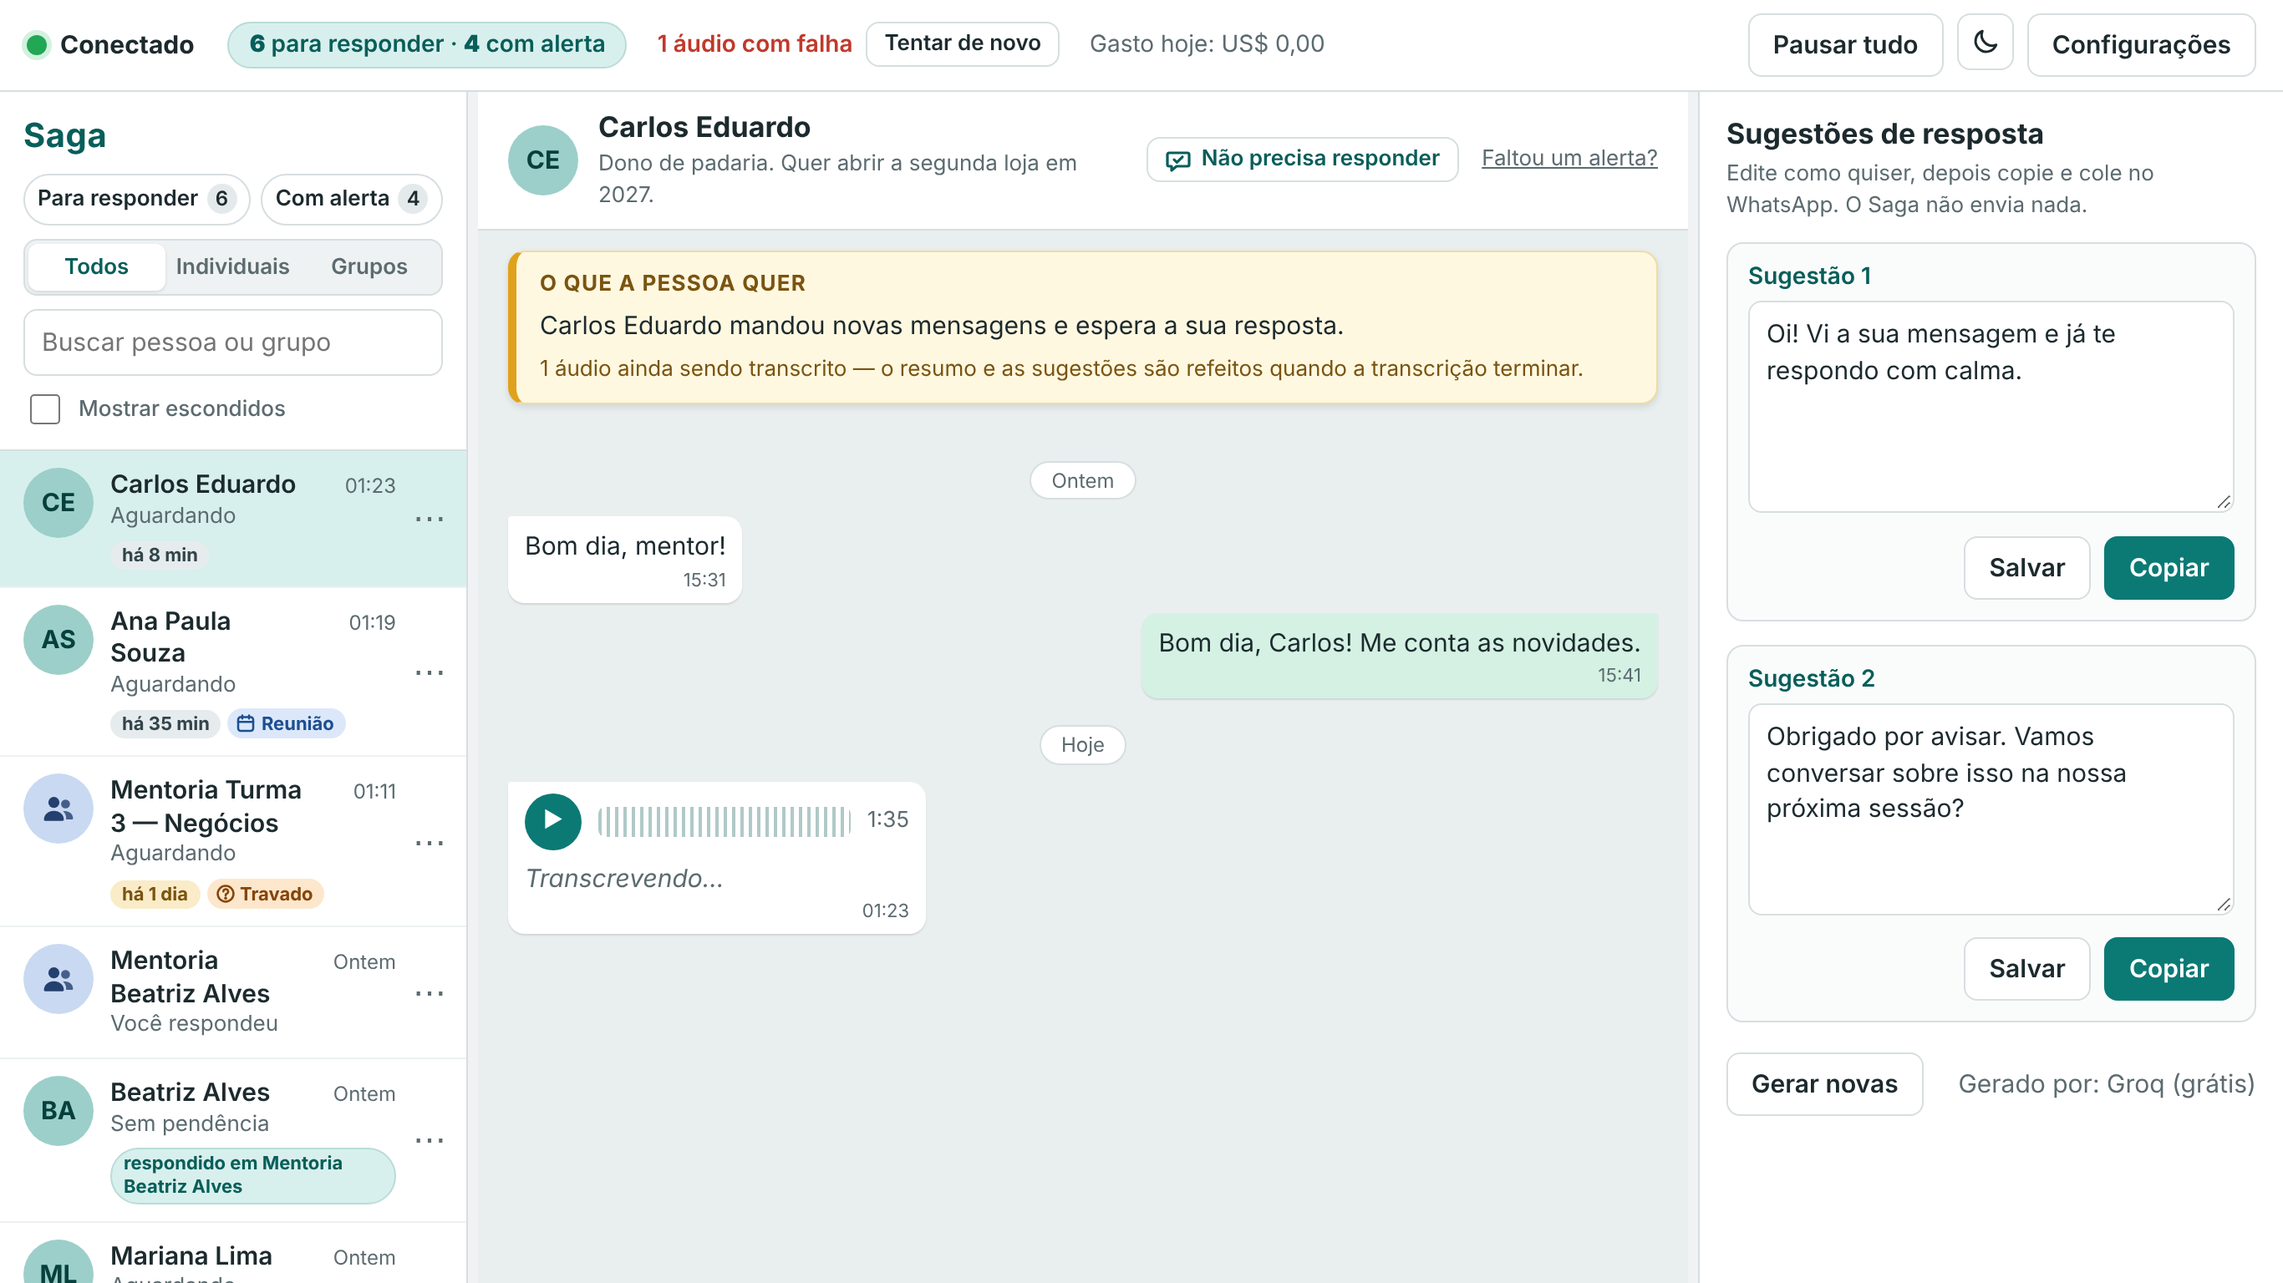
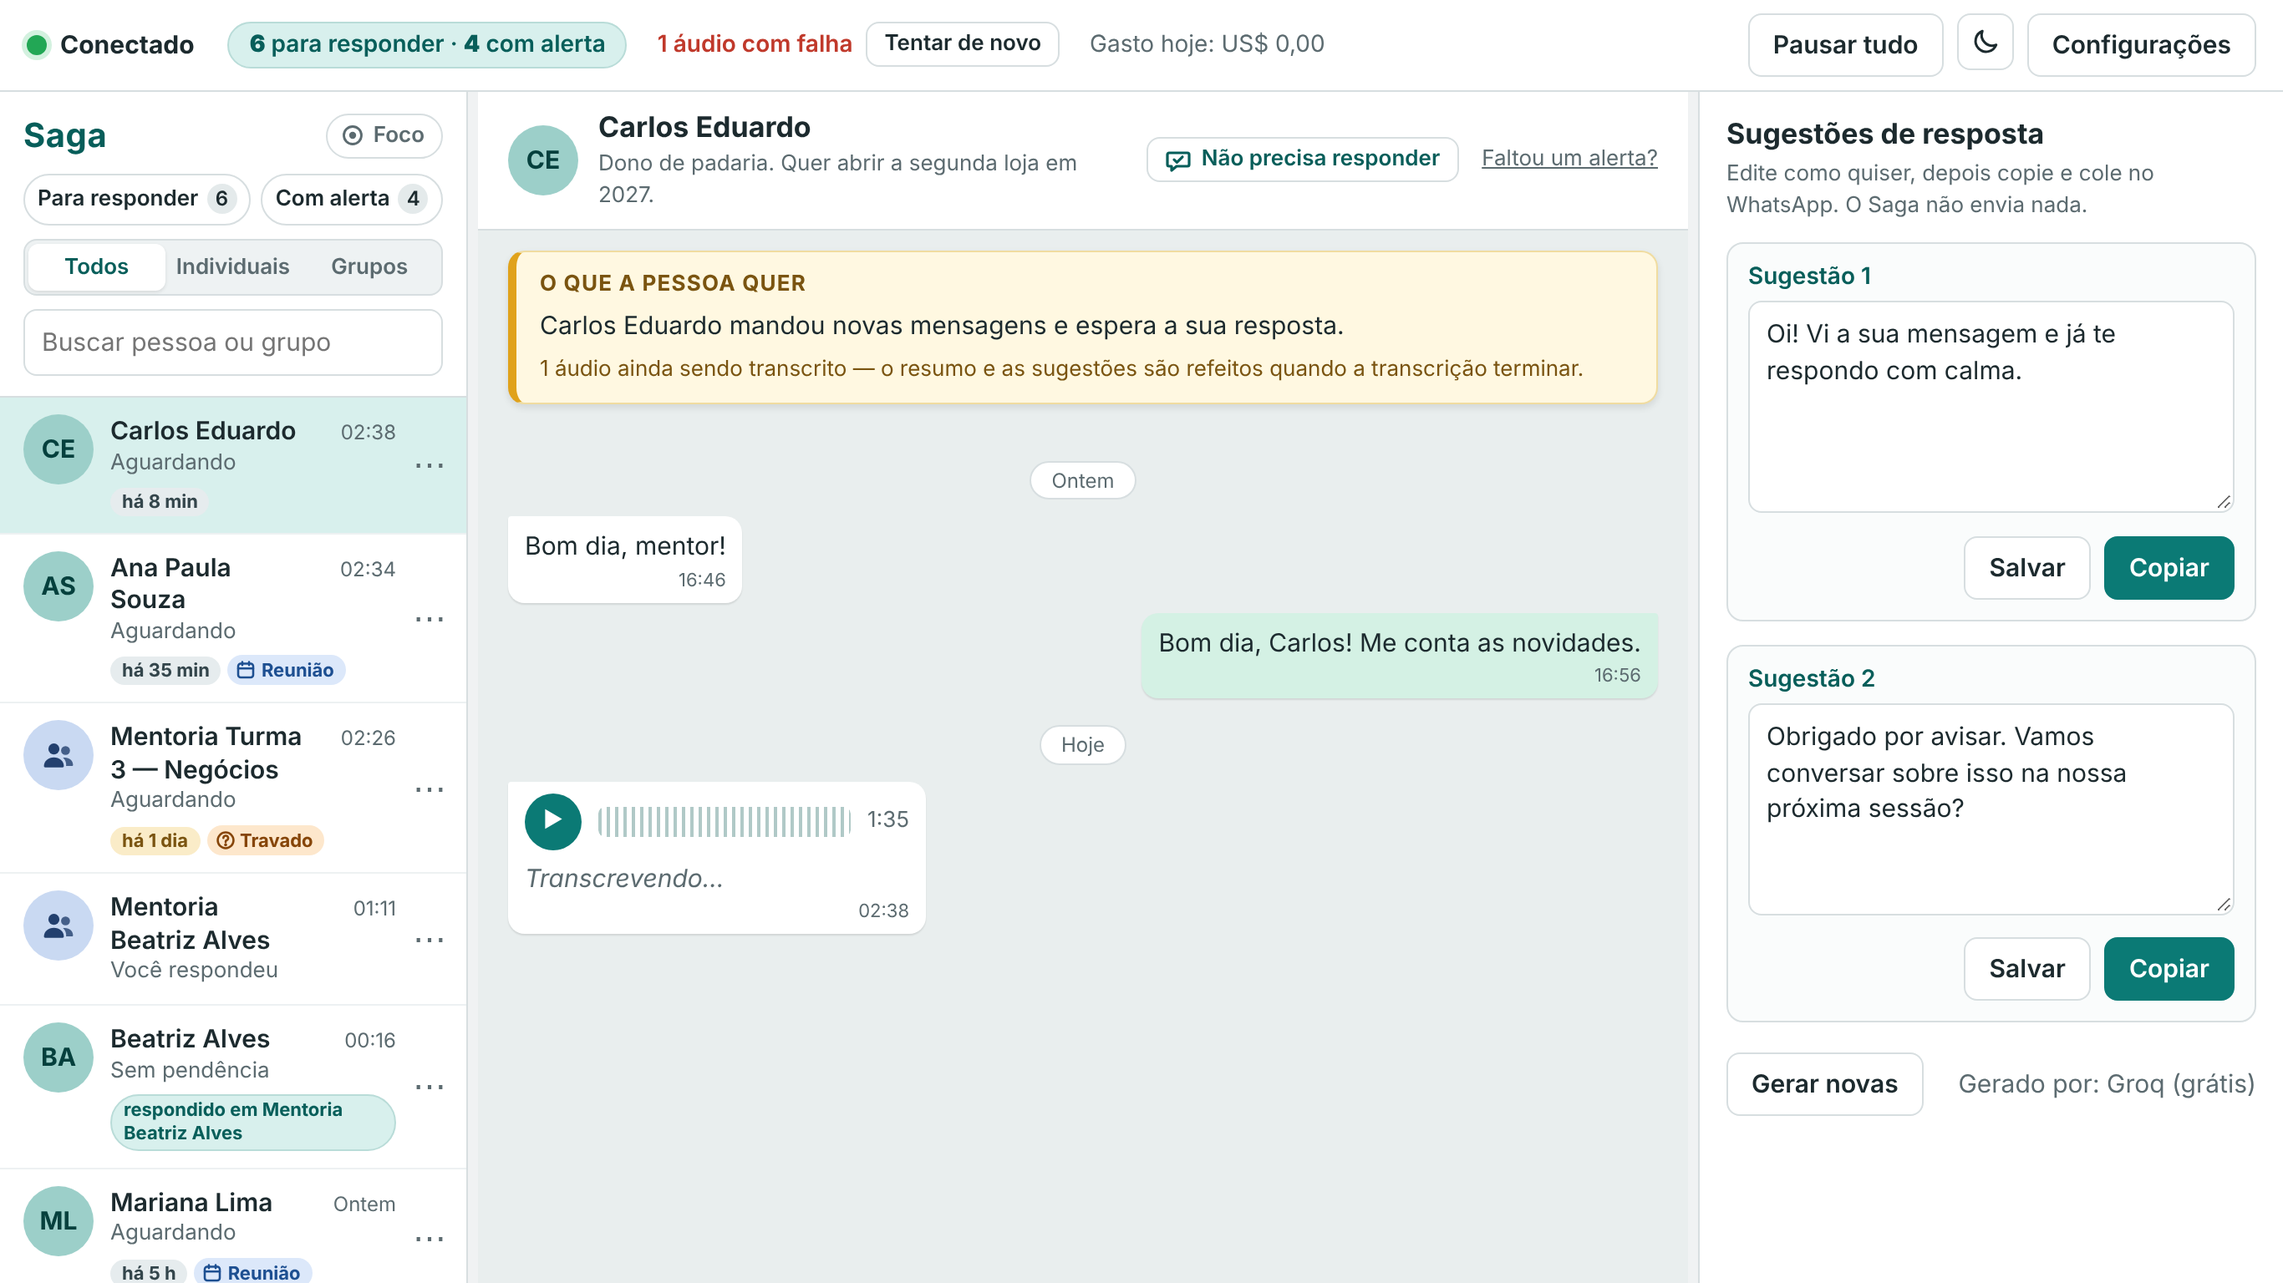
feat: sem conversas escondidas (telefone só profissional)
- Saem "Mostrar escondidos" e "Esconder/Mostrar" do menu ⋯; `setHidden` sai da interface
  (SagaApi, preload, guards). A coluna e os caminhos do núcleo continuam, inofensivos.
- Migração v11: todos os contatos voltam a aparecer; ao iniciar, os áudios sem transcrição dos que
  estavam escondidos voltam à fila pelo requeue de sempre (no ritmo normal), registrando só contagens.
- Guia, spec e imagens do guia atualizados.

Claude-Session: https://claude.ai/code/session_01Mkn95kvNhg8Mu9zouyonaq

Changed region(s): [[0.0, 0.2812, 0.2178, 1.0], [0.6845, 0.5, 0.7156, 0.5312], [0.1556, 0.0938, 0.1867, 0.125]]

diff --git a/src/core/service.ts b/src/core/service.ts
@@ -55,6 +55,9 @@ import type {
   Unsubscribe
 } from '../shared/api'
 
+/** Migração v11: conversas que estavam escondidas (os áudios delas voltam para a fila ao iniciar). */
+const UNHIDDEN_KEY = 'migration.unhidden_jids'
+
 /** O que o serviço usa do cliente do WhatsApp (o real ou um falso nos testes / modo SAGA_FAKE_WA). */
 export interface WaClientLike {
   on(event: 'qr' | 'status' | 'message' | 'disk' | 'contacts', listener: (arg: any) => void): unknown
@@ -397,6 +400,7 @@ export class SagaService extends EventEmitter {
 
   private async doStart(): Promise<void> {
     this.queue.recoverAfterCrash()
+    this.requeueUnhidden()
     for (const l of Object.values(this.limiters)) l.startWarmup()
     // alertas em segundo plano: o primeiro só sai depois de um intervalo inteiro (nada de rajada ao abrir)
     this.limiters.classify.markFinished()
@@ -676,22 +680,51 @@ export class SagaService extends EventEmitter {
     this.scheduleEmit()
   }
 
-  /** Esconder para de baixar/transcrever os áudios do contato; mostrar de novo devolve os que faltam à fila. */
+  /**
+   * Esconder para de baixar/transcrever os áudios do contato; mostrar de novo devolve os que faltam à fila.
+   * Desde a v0.3.0 a interface não esconde mais (telefone só profissional): fica para o núcleo e os testes.
+   */
   async setHidden(jid: string, hidden: boolean): Promise<void> {
     this.repo.setHidden(jid, hidden)
-    if (!hidden) {
-      for (const m of this.repo.listMessages(jid)) {
-        if (m.kind !== 'audio' || m.transcriptStatus !== null) continue
-        if (m.audioPath && existsSync(m.audioPath)) {
-          this.queue.requeue('transcribe', `transcribe:${m.id}`, { id: m.id, durationSec: m.durationSec, ts: m.ts })
-        } else {
-          this.queue.requeue('download_audio', m.id, { id: m.id, ts: m.ts })
-        }
-      }
-    }
+    if (!hidden) this.requeueMissingAudio(jid)
     this.pendingContacts = true
     this.pendingState = true
     this.scheduleEmit()
+  }
+
+  /** Devolve à fila (no ritmo normal) os áudios do contato ainda sem transcrição: baixar ou só transcrever. */
+  private requeueMissingAudio(jid: string): number {
+    let n = 0
+    for (const m of this.repo.listMessages(jid)) {
+      if (m.kind !== 'audio' || m.transcriptStatus !== null) continue
+      if (m.audioPath && existsSync(m.audioPath)) {
+        this.queue.requeue('transcribe', `transcribe:${m.id}`, { id: m.id, durationSec: m.durationSec, ts: m.ts })
+      } else {
+        this.queue.requeue('download_audio', m.id, { id: m.id, ts: m.ts })
+      }
+      n++
+    }
+    return n
+  }
+
+  /**
+   * Migração v11 (v0.3.0): os contatos que estavam escondidos voltaram a aparecer; os áudios que ficaram sem baixar ou
+   * transcrever enquanto eles estavam escondidos voltam para a fila. Roda uma vez (a lista é apagada depois).
+   */
+  private requeueUnhidden(): void {
+    const raw = this.repo.getSetting(UNHIDDEN_KEY)
+    if (raw === null) return
+    let jids: unknown = []
+    try {
+      jids = JSON.parse(raw)
+    } catch {
+      // lista corrompida: só apaga
+    }
+    let audios = 0
+    const list = Array.isArray(jids) ? jids.filter((j): j is string => typeof j === 'string') : []
+    for (const jid of list) audios += this.requeueMissingAudio(jid)
+    this.repo.deleteSetting(UNHIDDEN_KEY)
+    this.repo.logEvent('unhidden_requeue', `${list.length} conversa(s) voltaram a aparecer; ${audios} áudio(s) de volta à fila`)
   }
 
   async setNotes(jid: string, text: string): Promise<void> {

diff --git a/src/renderer/src/components/ContactList.tsx b/src/renderer/src/components/ContactList.tsx
@@ -86,7 +86,7 @@ function writeFocus(on: boolean): void {
 
 /**
  * Pede a resposta do mentor (fica normal no "Foco"): aguarda resposta e nem o Saga nem o mentor disseram que não
- * precisa (inclui "Respondido no grupo" como não precisa). Conversa escondida nunca pede.
+ * precisa (inclui "Respondido no grupo" como não precisa). Conversa escondida (de versões antigas) nunca pede.
  */
 export const needsMentor = (c: Contact): boolean => c.needsReply && !c.hidden
 
@@ -131,7 +131,6 @@ const VIEW_EMPTY: Record<Exclude<ContactView, 'all'>, string> = {
 
 export function ContactList({ selected, onSelect, request }: Props) {
   const [contacts, setContacts] = useState<Contact[] | null>(null)
-  const [showHidden, setShowHidden] = useState(false)
   const [kind, setKindState] = useState<ContactKind>(readKind)
   const [view, setViewState] = useState<ContactView>(readView)
   const [focus, setFocusState] = useState<boolean>(readFocus)
@@ -149,7 +148,7 @@ export function ContactList({ selected, onSelect, request }: Props) {
     let alive = true
     const load = () =>
       window.saga
-        .listContacts(showHidden, kind)
+        .listContacts(false, kind)
         .then((c) => {
           if (!alive) return
           setContacts(c)
@@ -162,7 +161,7 @@ export function ContactList({ selected, onSelect, request }: Props) {
       alive = false
       off()
     }
-  }, [showHidden, kind])
+  }, [kind])
 
   const setKind = (k: ContactKind) => {
     if (k === kind) return
@@ -297,10 +296,6 @@ export function ContactList({ selected, onSelect, request }: Props) {
           value={query}
           onChange={(e) => setQuery(e.target.value)}
         />
-        <label className="check">
-          <input type="checkbox" checked={showHidden} onChange={(e) => setShowHidden(e.target.checked)} />
-          Mostrar escondidos
-        </label>
       </div>
 
       <ul className="contacts-list">
@@ -397,16 +392,6 @@ export function ContactList({ selected, onSelect, request }: Props) {
                 <div className="menu" role="menu">
                   <button type="button" role="menuitem" onClick={() => setEditing({ jid: c.jid, mode: 'rename' })}>
                     Renomear
-                  </button>
-                  <button
-                    type="button"
-                    role="menuitem"
-                    onClick={() => {
-                      void window.saga.setHidden(c.jid, !c.hidden)
-                      if (!c.hidden && selected === c.jid && !showHidden) onSelect(null)
-                    }}
-                  >
-                    {c.hidden ? 'Mostrar' : 'Esconder'}
                   </button>
                   <button type="button" role="menuitem" onClick={() => setEditing({ jid: c.jid, mode: 'notes' })}>
                     Notas

diff --git a/tests/core/db/unhide.test.ts b/tests/core/db/unhide.test.ts
@@ -1,0 +1,36 @@
+import { mkdtempSync, rmSync } from 'node:fs'
+import { tmpdir } from 'node:os'
+import { join } from 'node:path'
+import { afterEach, describe, expect, it } from 'vitest'
+import { openDb } from '../../../src/core/db/db'
+import { Repo } from '../../../src/core/db/repo'
+
+let dir: string
+afterEach(() => rmSync(dir, { recursive: true, force: true }))
+
+describe('migração v11 (v0.3.0): sem conversas escondidas', () => {
+  it('mostra de novo quem estava escondido e guarda a lista para devolver os áudios à fila', () => {
+    dir = mkdtempSync(join(tmpdir(), 'saga-v11-'))
+    const file = join(dir, 'saga.db')
+    let db = openDb(file)
+    let repo = new Repo(db)
+    for (const jid of ['a@s.whatsapp.net', 'b@s.whatsapp.net', 'c@s.whatsapp.net']) repo.upsertContact({ jid })
+    repo.setHidden('a@s.whatsapp.net', true)
+    repo.setHidden('c@s.whatsapp.net', true)
+    db.exec('PRAGMA user_version = 10')
+    db.close()
+
+    db = openDb(file)
+    repo = new Repo(db)
+    expect((db.prepare('PRAGMA user_version').get() as { user_version: number }).user_version).toBe(11)
+    expect(repo.listContacts({ includeHidden: true }).filter((c) => c.hidden)).toEqual([])
+    expect(JSON.parse(repo.getSetting('migration.unhidden_jids')!).sort()).toEqual(['a@s.whatsapp.net', 'c@s.whatsapp.net'])
+    db.close()
+  })
+
+  it('banco novo / sem escondidos: nada a devolver', () => {
+    dir = mkdtempSync(join(tmpdir(), 'saga-v11-'))
+    const repo = new Repo(openDb(':memory:'))
+    expect(repo.getSetting('migration.unhidden_jids')).toBeNull()
+  })
+})

diff --git a/tests/renderer/focus.test.tsx b/tests/renderer/focus.test.tsx
@@ -43,7 +43,7 @@ describe('Foco', () => {
     expect(document.querySelectorAll('.contact.is-dim')).toHaveLength(0)
   })
 
-  it('lembra a escolha e funciona junto com os filtros (só grupos, Para responder, escondidos)', async () => {
+  it('lembra a escolha e funciona junto com os filtros (só grupos, Para responder)', async () => {
     localStorage.setItem(FOCUS_KEY, '1')
     render(<ContactList selected={null} onSelect={() => {}} />)
     await screen.findByText('Ana Paula Souza', { selector: '.contact-name' })
@@ -70,6 +70,18 @@ describe('Foco', () => {
     expect(btn.getAttribute('aria-pressed')).toBe('false')
     fireEvent.click(btn)
     expect(btn.getAttribute('aria-pressed')).toBe('true')
+  })
+
+  it('v0.3.0: sem "Mostrar escondidos" nem "Esconder/Mostrar" no menu (telefone só profissional)', async () => {
+    const list = vi.spyOn(window.saga, 'listContacts')
+    render(<ContactList selected={null} onSelect={() => {}} />)
+    await screen.findByText('Ana Paula Souza', { selector: '.contact-name' })
+    expect(screen.queryByLabelText('Mostrar escondidos')).toBeNull()
+    expect(list).toHaveBeenCalledWith(false, 'all')
+    fireEvent.click(screen.getByRole('button', { name: 'Opções de Ana Paula Souza' }))
+    const items = screen.getAllByRole('menuitem').map((b) => b.textContent)
+    expect(items).toEqual(['Renomear', 'Notas'])
+    expect('setHidden' in window.saga).toBe(false)
   })
 
   it('needsMentor: precisa de resposta e não está escondida', () => {

diff --git a/tests/main/guards.test.ts b/tests/main/guards.test.ts
@@ -2,6 +2,7 @@ import { describe, expect, it } from 'vitest'
 import { pathToFileURL } from 'node:url'
 import { resolve } from 'node:path'
 import { InvalidIpcArgsError, isAppUrl, isExternalHttpUrl, validateIpcArgs } from '../../src/main/guards'
+import { INVOKE_METHODS } from '../../src/shared/api'
 
 const INDEX = resolve('/app/resources/app.asar/out/renderer/index.html')
 const DEV = 'http://localhost:5173'
@@ -84,8 +85,6 @@ describe('validateIpcArgs', () => {
     ok('renameContact', 'a', 'Ana')
     ok('renameContact', 'a', '')
     bad('renameContact', 'a', null)
-    ok('setHidden', 'a', true)
-    bad('setHidden', 'a', 'true')
     ok('setNotes', 'a', 'notas')
     bad('setNotes', '', 'notas')
     ok('listContacts', false)
@@ -279,6 +278,10 @@ describe('alertas', () => {
 describe('base de conhecimento', () => {
   const ok = (m: any, ...a: unknown[]) => expect(() => validateIpcArgs(m, a)).not.toThrow()
   const bad = (m: any, ...a: unknown[]) => expect(() => validateIpcArgs(m, a)).toThrow(InvalidIpcArgsError)
+
+  it('v0.3.0: "setHidden" não existe mais na interface', () => {
+    expect((INVOKE_METHODS as readonly string[]).includes('setHidden')).toBe(false)
+  })
 
   it('importar e adicionar: o caminho nunca vem da interface (só o tipo do diálogo)', () => {
     ok('kbList')

diff --git a/src/shared/api.ts b/src/shared/api.ts
@@ -164,7 +164,10 @@ export interface SagaApi {
   /** chegou mensagem (ou transcrição) desse contato: chamar `listMessages(jid)` de novo */
   onMessages(jid: string, cb: () => void): Unsubscribe
 
-  /** `kind`: todas (padrão), só individuais ou só grupos */
+  /**
+   * `kind`: todas (padrão), só individuais ou só grupos. `includeHidden`: desde a v0.3.0 a interface não esconde mais
+   * conversas (telefone só profissional) e sempre passa `false`; os escondidos antigos foram mostrados de novo.
+   */
   listContacts(includeHidden: boolean, kind?: ContactKind): Promise<Contact[]>
   listMessages(jid: string): Promise<MessageView[]>
   /** alertas ativos de uma conversa, ou de todas as não escondidas (mais graves primeiro) */
@@ -199,7 +202,6 @@ export interface SagaApi {
   copyToClipboard(text: string): Promise<void>
 
   renameContact(jid: string, name: string): Promise<void>
-  setHidden(jid: string, hidden: boolean): Promise<void>
   setNotes(jid: string, text: string): Promise<void>
 
   pauseAll(): Promise<void>
@@ -268,7 +270,6 @@ export const INVOKE_METHODS = [
   'saveReply',
   'copyToClipboard',
   'renameContact',
-  'setHidden',
   'setNotes',
   'pauseAll',
   'resumeAll',

diff --git a/tests/core/service.test.ts b/tests/core/service.test.ts
@@ -587,6 +587,18 @@ describe('SagaService', () => {
       const keys = repo.listJobs('pending').map((j) => `${j.type}:${j.key}`).sort()
       expect(keys).toEqual(['download_audio:h1', 'transcribe:transcribe:h2'])
     })
+
+    it('v0.3.0: ao iniciar, os áudios das conversas que estavam escondidas (migração v11) voltam à fila uma vez', async () => {
+      audio('u1')
+      audio('u2', { file: true })
+      repo.setSetting('migration.unhidden_jids', JSON.stringify([JID]))
+      await service.start()
+      const keys = repo.listJobs('pending').map((j) => `${j.type}:${j.key}`).sort()
+      expect(keys).toEqual(['download_audio:u1', 'transcribe:transcribe:u2'])
+      expect(repo.getSetting('migration.unhidden_jids')).toBeNull()
+      const ev = repo.recentEvents(20).find((e) => e.kind === 'unhidden_requeue')!
+      expect(ev.detail).toBe('1 conversa(s) voltaram a aparecer; 2 áudio(s) de volta à fila')
+    })
   })
 
   describe('configurações', () => {

diff --git a/src/core/db/db.ts b/src/core/db/db.ts
@@ -9,9 +9,10 @@ import schemaV7 from './schema-v7.sql?raw'
 import schemaV8 from './schema-v8.sql?raw'
 import schemaV9 from './schema-v9.sql?raw'
 import schemaV10 from './schema-v10.sql?raw'
+import schemaV11 from './schema-v11.sql?raw'
 
 /** Migrações em ordem; o índice + 1 é o `user_version` resultante. */
-const MIGRATIONS: string[] = [schemaV1, schemaV2, schemaV3, schemaV4, schemaV5, schemaV6, schemaV7, schemaV8, schemaV9, schemaV10]
+const MIGRATIONS: string[] = [schemaV1, schemaV2, schemaV3, schemaV4, schemaV5, schemaV6, schemaV7, schemaV8, schemaV9, schemaV10, schemaV11]
 
 export function openDb(file: string | ':memory:'): DatabaseSync {
   const db = new DatabaseSync(file)

diff --git a/src/main/ipc.ts b/src/main/ipc.ts
@@ -62,7 +62,6 @@ export function registerIpc(service: SagaService, opts: IpcOptions): () => void 
     saveReply: (input) => service.saveReply(input),
     copyToClipboard: async (text) => clipboard.writeText(String(text)),
     renameContact: (jid, name) => service.renameContact(String(jid), String(name)),
-    setHidden: (jid, hidden) => service.setHidden(String(jid), !!hidden),
     setNotes: (jid, text) => service.setNotes(String(jid), String(text)),
     pauseAll: () => service.pauseAll(),
     resumeAll: () => service.resumeAll(),

diff --git a/src/renderer/src/format.ts b/src/renderer/src/format.ts
@@ -166,6 +166,7 @@ const EVENT_LABELS: Record<string, string> = {
   kb_import: 'Base de conhecimento importada',
   kb_import_error: 'Erro ao importar para a base de conhecimento',
   kb_removed: 'Pacote removido da base de conhecimento',
+  unhidden_requeue: 'Conversas escondidas voltaram a aparecer',
   ipc_refused: 'Chamada bloqueada por segurança',
   reconcile_error: 'Erro ao conferir mensagens enviadas',
   emit_error: 'Erro ao atualizar a tela',

diff --git a/src/renderer/src/dev/fakeSaga.ts b/src/renderer/src/dev/fakeSaga.ts
@@ -404,12 +404,6 @@ export function createFakeSaga(opts: FakeOptions = {}): FakeControl {
       else names.delete(jid)
       contactListeners.forEach((l) => l())
     },
-    setHidden: async (jid, h) => {
-      if (h) hidden.add(jid)
-      else hidden.delete(jid)
-      contactListeners.forEach((l) => l())
-      emitState()
-    },
     setNotes: async (jid, text) => {
       notes.set(jid, text)
       contactListeners.forEach((l) => l())

diff --git a/src/main/guards.ts b/src/main/guards.ts
@@ -147,7 +147,6 @@ const RULES: Record<InvokeMethod, (a: unknown[]) => boolean> = {
     (i.analysisLastMsgId === null || i.analysisLastMsgId === undefined || isStr(i.analysisLastMsgId)),
   copyToClipboard: ([t]) => isStr(t),
   renameContact: ([j, n]) => nonEmpty(j) && isStr(n),
-  setHidden: ([j, h]) => nonEmpty(j) && isBool(h),
   setNotes: ([j, t]) => nonEmpty(j) && isStr(t),
   pauseAll: () => true,
   resumeAll: () => true,
